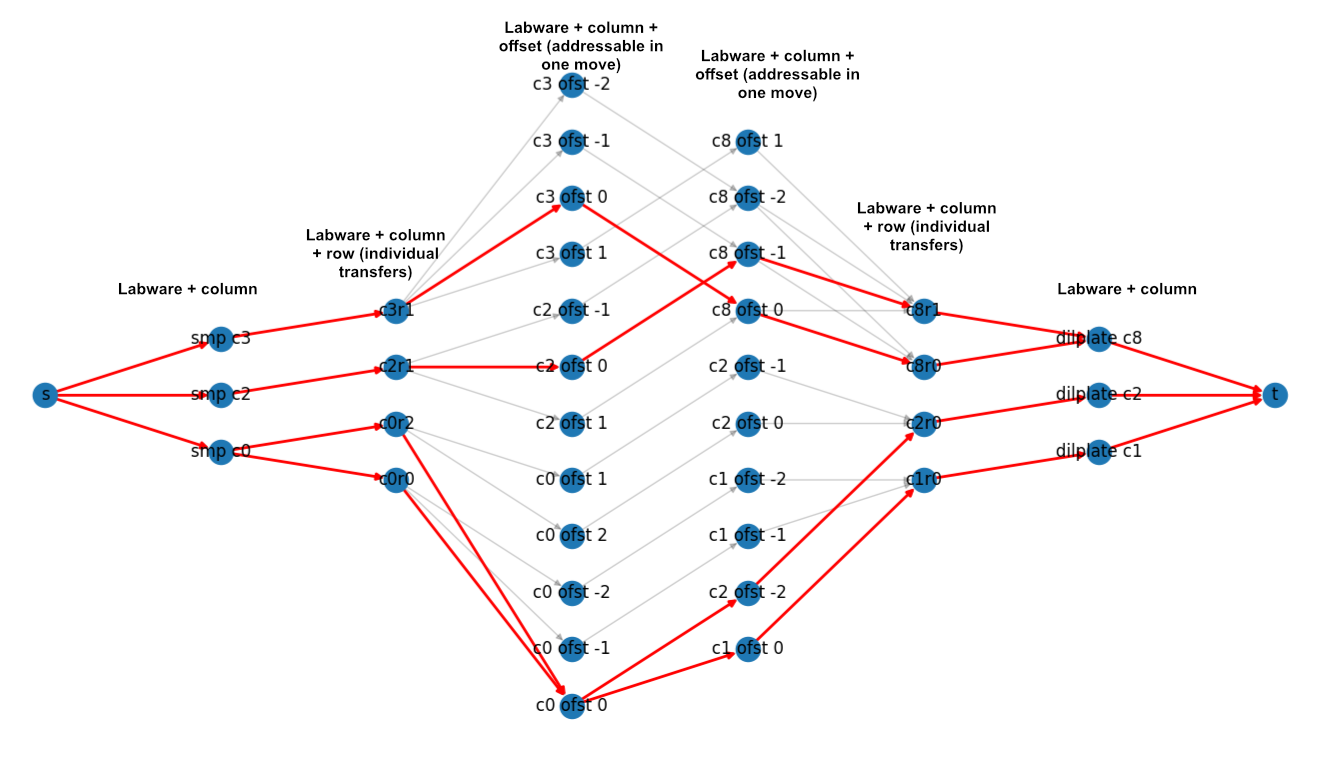
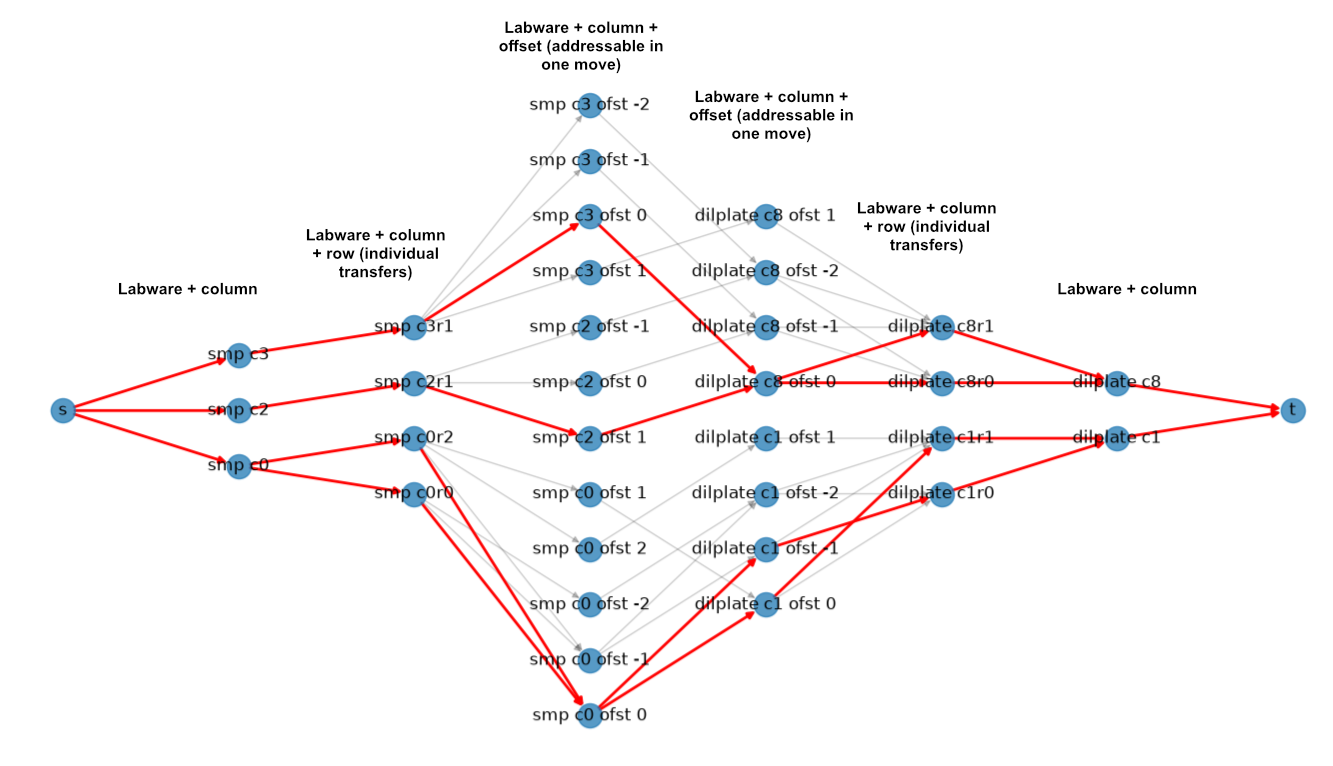
Draft of optimisation details

Changed region(s): [[0.0, 0.0901, 0.9842, 0.9608], [0.5229, 0.0601, 0.6459, 0.2102]]

diff --git a/evo_pipetting_optimiser/optimisation/OpGraph.py b/evo_pipetting_optimiser/optimisation/OpGraph.py
@@ -344,7 +344,6 @@ class OpGraph:
             if largest_offset > offset_difference:
                 offset_penalty += largest_offset - offset_difference
 
-
             # We want to encourage offsets closer to 0 
             offset_penalty += abs(u_offset + v_offset)
 
@@ -489,7 +488,7 @@ def show_graph(G):
     ]
 
     # Draw nodes and all edges faintly
-    nx.draw_networkx_nodes(G, pos)
+    nx.draw_networkx_nodes(G, pos, alpha=0.75)
     nx.draw_networkx_edges(G, pos, alpha=0.2)  # faint background edges
 
     # Draw active flow edges prominently

diff --git a/optimisation_details.md b/optimisation_details.md
@@ -13,10 +13,49 @@ The following graph is produced
 
 We use this graph to calculate pipetting operations that can be conducted in a single move of the pipetting arm, and find the operation with maximal efficiency.
 
-The left 4 columns are the 'source' side. The graph begins with an 's' node, which is needed to calculate a flow. This connects to a node for each column in each labware. As the pipetting arm has 8 tips in a column, it can only access 1 column in 1 labware at a time. So this is the first layer of division.
+The left 4 columns are the 'source' side. The graph begins with a single source node labelled 's', which is needed to calculate a flow. This connects to a node for each column in each labware. As the pipetting arm has 8 tips in a column, it can only access 1 column in 1 labware at a time. So this is the first layer of division.
 
-Each of these columns has (usually 8) rows. The rows that have pending pipetting operations have nodes created. The associated labware + column node has an edge going to the rows contained within that column. Here, smp column 0 has pipetting operations in row 0 and row 2 (A01 and C01).
+Each of these columns has (usually 8) rows. The rows that have pending pipetting operations have nodes created. The associated labware + column node has an edge going to the rows contained within that column. Here, smp column 0 has pipetting operations in row 0 and row 2 (A01 and C01). The other columns have only 1 row relevant.
 
 Each column in a plate may be accessed with the tips offset in the y direction. With the default offset of 0, each tip is above its corresponding row. With an offset of +7, tip 8 is above row A. With an offset of -7, tip 1 is above row H. To show a simpler graph for this example, offset_limit_up and offset_limit_down are each set to 2 in the labware objects, which limits the possible offsets from -2 to +2.
 
-Edges are created from each row, to each offset which can address this row. Each of these edges thus represents a tip being assigned 
+Edges are created from each row, to each offset which can address this row. Each of these edges thus represents a tip being assigned to a particular row. The graph shows all possible assignments as grey edges, and the edges that were actually selected by the algorithm in red. 'smp c0r0' and 'smp c0r2' can both be aspirated with an offset of 0, so they have red edges to the 'smp c0 ofst 0' node. As we are aspirating row 0 and row 2 with an offset of 0, this will use tip 0 and tip 2. This node represents a single 'aspirate'.
+
+The 5th column also represents an offset, but on the 'dispense' side. From 'aspirate' c0 ofst 0, 1 edge goes to 'dilplate c1 ofst 0' (the transfer from A01 to A02). However the other edge goes to a different offset, because we are tranferring to a different row - C01 to B02. As tip 2 aspirated C01, and it now needs to dispense to B02, it must do this with an offset of -1, so the edge goes to 'dilplate c1 ofst -1'. Thus, this single aspirate node links to 2 dispense nodes, and 2 dispenses are required.
+
+These dispense nodes then have edges back to the respective rows of the dispense plate. Here, the incorrect edges are highlighted - this does not matter. The algorithm only needs to ensure there is sufficient capacity to dispense operations from the desired offset - no actual decision is made from which of these edges are highlighted.
+
+These rows are then linked to nodes representing the column of the dilution plate, the 't' node, called the sink. 
+
+### Flow calculation
+Above, we explain how nodes and edges are constructed, and what they represent. To come up with a 'flow' through this graph (a selection of edges), we assign different edges weights, corresponding to how preferable they are, and then use an algorithm called `max_flow_min_cost` to calculate a flow.
+
+![Figure showing a graph with nodes representing the pipetting rows and columns plus weights shown](figures/optimiser%20graph%20weights.png)
+In this figure, each edge is labelled with 3 numbers, seperated by slashes. The first is the 'flow' - what the algorithm has decided to put through this edge. You will see that the highlighted edges have a flow >= 1. 1 unit of flow represents 1 op - an edge with a flow of 1 will complete 1 op if it is selected. The second number is the capacity - the maxiumum flow an edge could take, corresponding to the maximum number of ops this edge can address. You sill see that the edge s -> smp c0 has a flow of 2 and a capacity of 2, because 2 ops are completable from this column. 
+
+The third number is the weight. The edges between the 3 outer columns have no weights, as they do not influence the moves of the actual arm - they merely help with construction of the graph. The central edges between the 'source offset' and 'destination offset' columns have a weight in the range of 0-15. This is an 'offset penalty' applied to keep offsets low and close together.
+
+```
+offset_difference = abs(u_offset - v_offset)
+largest_offset = max(abs(u_offset), abs(v_offset))
+
+if largest_offset > offset_difference:
+    offset_penalty += largest_offset - offset_difference
+
+# We want to encourage offsets closer to 0 
+offset_penalty += abs(u_offset + v_offset)
+```
+The first penalty calculates the difference between the offsets required to complete the pipetting - this varies based on rows used. Pipetting from row A to row A will be doable with an offset of 0, but pipetting from row A to row D requires an offset of at least 3. However, moving the arm further with an offset >3 is counterproductive - it means the arm has to move further, and also means that it can address less wells at once, meaning it could restrict the selection of other ops. Thus we incentivise against offsets greater than necessary by applying a penalty equal to actual offset minus the smallest required offset.
+
+The second penalty encourages the sum of the offsets to be as close to 0 as possible - this ensures that we stay as close to offset 0 as possible when transferring between similar rows, again maximising the other ops that can share in a movement.
+
+The weights between row nodes and offset nodes are 0 or negative. The calculation here is 
+`-16 * number_of_row_edges`, where number_of_row_edges is the number of edges from that offset to corresponding rows - i.e. the number of different operations that can be addressed with a single offset. We want to maximise this, as offsets that connect to the maximum number of rows can complete that number of ops with a single arm movement.
+
+The `max_flow_min_cost` algorithm will first maximise the flow - selecting every possible op. It will then minimise the cost - complete these ops with the minimum sum of (flow * weight) across all edges.
+
+A key advantage of this approach is the ability to realise shared nodes at either the source or the destination, and consider these equally. 3 aspiration offset nodes could link to 2 dispense offset nodes, and complete 8 ops among them. Previous logical approaches could only consider the utility of one isolated node at a time.
+
+Without the weights, the selection of edges through the graph would be completely random. This would always produce a *possible* set of pipetting operations, correctly assigning rows and offsets, but it will not be efficient. The described weights influence the algorithm to choose edges that are the most likely to enable other ops to share the touched nodes.
+
+This might seem contrived - the weights are a guide to selecting popular nodes. The obvious way would be to count the number of nodes touched, and minimse this - this would by definition select the nodes that can fulfil the most edges (ops) at a time. However, counting selected nodes, or edges, becomes a boolean programming problem - a node should be counted equally if it has 1 flow or 100 flow, and not counted if it has 0 flow - it is boolean, off or on. This is a very difficult type of problem to solve computationally - known as NP-hard. However, the weights allow us to use the 'simplex' algorithm, which is under the hood of `max_flow_min_cost`. This is a linear programming technique, where the weight can be represented as a linear equation - the sum of the weights multiplied by the flow is in fact a linear equation. Boolean inclusion/exclusion cannot be represented in a linear equation. Linear equations are much easier computatilnally, achieving polynomial time on average. Thus, this allows the optimiser to repeatedly calculate good-enough assignments at each step of the process in a reasonable time.
